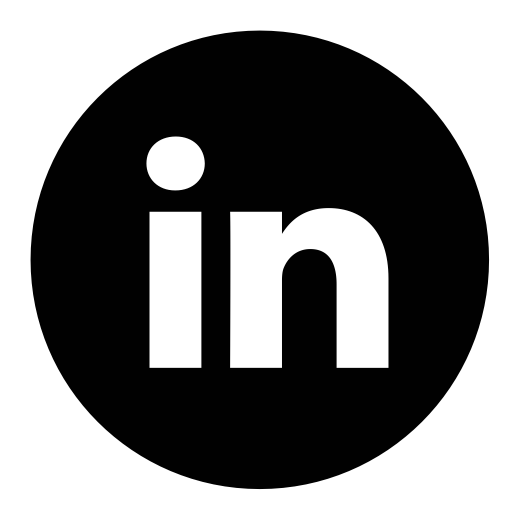
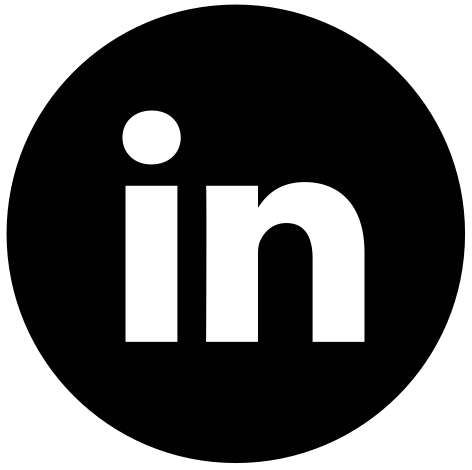
cleanup

Changed region(s): [[0.0, 0.0, 1.0, 1.0], [0.2373, 0.2085, 0.7712, 0.7447], [0.5636, 0.4766, 0.6525, 0.5064]]

diff --git a/loadOwner.js b/loadOwner.js
@@ -55,6 +55,16 @@ function loadHomeJSON() {
                 $('#paragraph1').html(response.Home.firstP1);
                 $('#paragraph2').html(response.Home.secondP1);
                 $('#paragraph3').html(response.Home.thirdP1);
+
+                //remove elements
+                $('#header2').css("margin","0px");
+                $('#header3').css("margin","0px");
+                $('#header4').css("margin","0px");
+                $('#header5').css("margin","0px");
+                $('#lineBreaks2').css("height","0px");
+                $('#lineBreaks3').css("height","0px");
+                $('#lineBreaks4').css("height","0px");
+                $('#lineBreaks5').css("height","0px");
             }
         });
     });
@@ -115,9 +125,8 @@ function loadHistoryJSON() {
 function homePicture() {
     var insertPicElement = "<div id='homeImg'><div id='homeMotto'>Watch How We Soar!</div></div>";
     $('#header1').before(insertPicElement);
-    $('#homeImg').css({"margin-right":"40px", "margin-left" : "40px", "margin-top" : "10px", "height" : "300px", "background-size" : "300px", "background" : "url(Fall_Leaves.jpg)"});
+    $('#homeImg').css({"margin-right":"20px", "margin-left" : "20px", "margin-top" : "10px", "height" : "300px", "background-size" : "300px", "background" : "url(Fall_Leaves.jpg)"});
     $('#homeMotto').css({"color" : "white", "font-size" : "70px", "font-weight" : "500", "font-family" : "Airstream", "text-align" : "center", "line-height" : "300px"});
-    // $('#homePicture').css({"height" : "300px"});
 }
 
 function highlightButtons(buttonName) {
@@ -150,7 +159,7 @@ function socialMediaButtons() {
     $('#header1').before(insertList);        
     $('.socialMediaList').css({"display" : "inline"});
     $('#tester').css({"margin-left" : "auto", "margin-right" : "auto", "padding-top" : "5px", "padding-bottom" :"25px", "width" : "150px", "height" : "43px"});
-    $('#linkedin').css({"background" : "url('linkedin_icon2.png')", "background-size" : "40px 40px", "margin-right" : "5px", "margin-left" : "5px", "display" : "inline-block", "width" : "40px", "height" : "40px"});
+    $('#linkedin').css({"background" : "url('linkedin_icon.png')", "background-size" : "40px 40px", "margin-right" : "5px", "margin-left" : "5px", "display" : "inline-block", "width" : "40px", "height" : "40px"});
     $('#email').css({"background" : "url('email_icon.png')", "background-size" : "40px 40px", "display" : "inline-block", "margin-right" : "5px", "margin-left" : "5px", "width" : "40px", "height" : "40px"});
     $('#github').css({"background" : "url('github_icon.png')", "background-size" : "40px 40px", "display" : "inline-block","margin-right" : "5px", "margin-left" : "5px", "width" : "40px", "height" : "40px"});
 }
